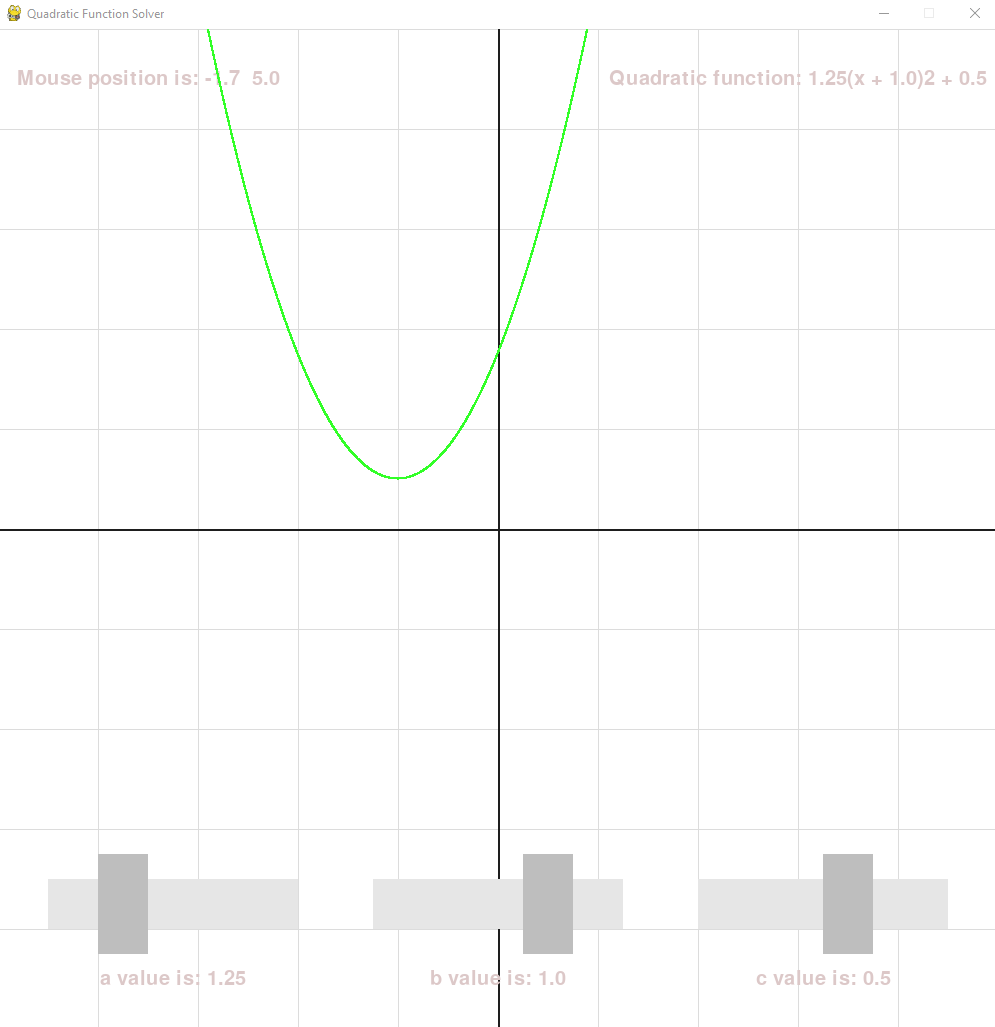
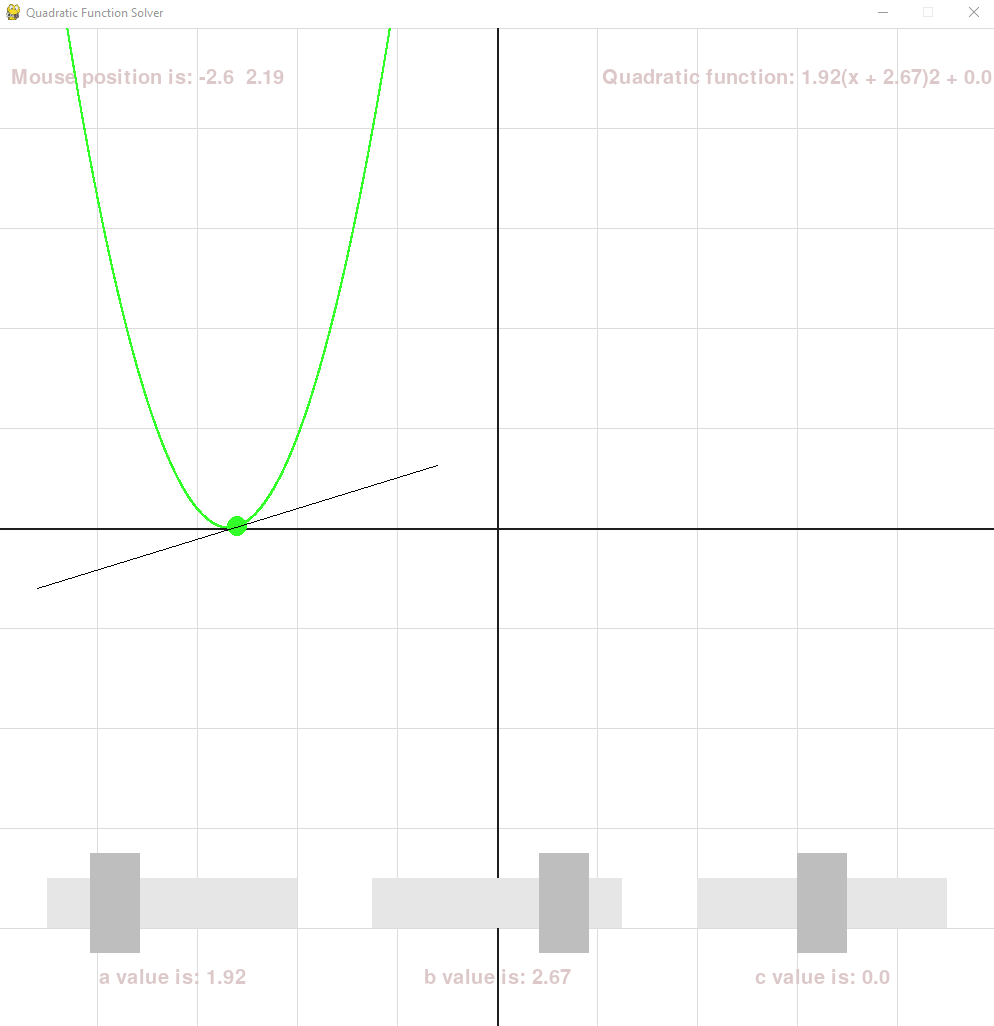
updated
now shows the tangent with the local slope to prove i understand the topics of my upcoming math exam

diff --git a/quadratic.py b/quadratic.py
@@ -1,4 +1,4 @@
-import pygame
+import pygame, math
 pygame.init()
 
 xy = 1000
@@ -7,6 +7,7 @@ pygame.display.set_caption("Quadratic Function Solver")
 clock = pygame.time.Clock()
 rows = 10
 spacebtwn = xy // rows
+started = False
 run = True
 
 
@@ -47,8 +48,40 @@ def drawGrid():
     pygame.draw.line(win, (30, 30, 30), (xy/2, 0), (xy/2, xy), width=2)
 
 
-def drawPoint(x, y):
-    pygame.draw.circle(win, (50, 255, 40), (x, y), 1)
+def euclidian(x1, y1, x2, y2):
+    return math.sqrt(((x2 - x1) ** 2) + (y2 - y1) ** 2)
+
+
+def clickedOn(place, radius):
+    pos = pygame.mouse.get_pos()
+    mouse = pygame.mouse.get_pressed(3)
+    if euclidian(pos[0], pos[1], place[0], place[1]) < radius and mouse[0]:
+        return True
+    else:
+        return False
+
+
+def drawPoint(x, y, width=1):
+    pygame.draw.circle(win, (50, 255, 40), (x, y), width)
+
+
+def drawLinear(m, point, color=(0, 0, 0)):
+    pygame.draw.line(win, color, (point[0] - 200, point[1] - m * 200), (point[0] + 200, point[1] + m * 200))
+
+
+def startingWin():
+    global started
+    if clickedOn((xy//2, xy//2), 150):
+        started = True
+    startImg = pygame.transform.scale(pygame.image.load("math background.jpg"), (xy, xy))
+    win.blit(startImg, (0, 0, 0, 0))
+    pygame.draw.circle(win, (0, 255, 0), (xy//2, xy//2), 150)
+    textOnScreen(xy//2, xy//2, 'Click to get started!', '', 30, color=(255, 0, 0))
+
+
+def showLocalTangent():
+    mousePos = pygame.mouse.get_pos()
+
 
 
 class Slider:
@@ -124,32 +157,42 @@ def func(a, b, c):
     while x < 600:
         dx = x
         dy = (0.01*a*((x+b*100)**2)+c*100)
+        localx = pygame.mouse.get_pos()[0]
+        localy = xy/2 - (0.01*a*(((localx-xy/2)+b*100)**2)+c*100)
+        drawPoint(localx, localy, width=10)
+        m = (2*a*(xy/2 - localx) / 100) + (2*a*-b)
+        drawLinear(m, (localx, localy))
         drawPoint(dx+xy/2, xy/2-dy)
         x += 0.1
 
 
 def redrawWin():
-    win.fill((255, 255, 255))
-    drawGrid()
-    textOnScreen(150, 50, "Mouse position is: ", str((pygame.mouse.get_pos()[0]/100)-5)[:4]+"  "+str(((pygame.mouse.get_pos()[1]/100)-5)*-1)[:4], 20)
-    aSlider.draw(), aSlider.interact()
-    bSlider.draw(), bSlider.interact()
-    cSlider.draw(), cSlider.interact()
-    a = 0.2+(aSlider.handleX-aSlider.handleXdef)/25
-    b = -4+(bSlider.handleX-bSlider.handleXdef)/25
-    c = -4+(cSlider.handleX-cSlider.handleXdef)/25
-    textOnScreen(xy-200, 50, "Quadratic function: ", str(a)[:4]+"(x + " + str(b)[:4] + ")2 + " + str(c)[:4], 20)
-    textOnScreen(aSlider.slideX+aSlider.slideRect.width/2, xy-50, "a value is: ", str(a)[:4], 20)
-    textOnScreen(bSlider.slideX+bSlider.slideRect.width/2, xy-50, "b value is: ", str(b)[:4], 20)
-    textOnScreen(cSlider.slideX+cSlider.slideRect.width/2, xy-50, "c value is: ", str(c)[:4], 20)
-    func(a, b, c)
-    pygame.display.update()
+    if started:
+        win.fill((255, 255, 255))
+        drawGrid()
+        textOnScreen(150, 50, "Mouse position is: ", str((pygame.mouse.get_pos()[0]/100)-5)[:4]+"  "+str(((pygame.mouse.get_pos()[1]/100)-5)*-1)[:4], 20)
+        aSlider.draw(), aSlider.interact()
+        bSlider.draw(), bSlider.interact()
+        cSlider.draw(), cSlider.interact()
+        a = 0.2+(aSlider.handleX-aSlider.handleXdef)/25
+        b = -4+(bSlider.handleX-bSlider.handleXdef)/25
+        c = -4+(cSlider.handleX-cSlider.handleXdef)/25
+        textOnScreen(xy-200, 50, "Quadratic function: ", str(a)[:4]+"(x + " + str(b)[:4] + ")2 + " + str(c)[:4], 20)
+        textOnScreen(aSlider.slideX+aSlider.slideRect.width/2, xy-50, "a value is: ", str(a)[:4], 20)
+        textOnScreen(bSlider.slideX+bSlider.slideRect.width/2, xy-50, "b value is: ", str(b)[:4], 20)
+        textOnScreen(cSlider.slideX+cSlider.slideRect.width/2, xy-50, "c value is: ", str(c)[:4], 20)
+        func(a, b, c)
+        print(a, b, c)
+        pygame.display.update()
+    else:
+        startingWin()
+        pygame.display.update()
 
 
 def main():
     global run
     while run:
-        clock.tick(100)
+        clock.tick(1000)
         for event in pygame.event.get():
             if event.type == pygame.QUIT:
                 run = False
